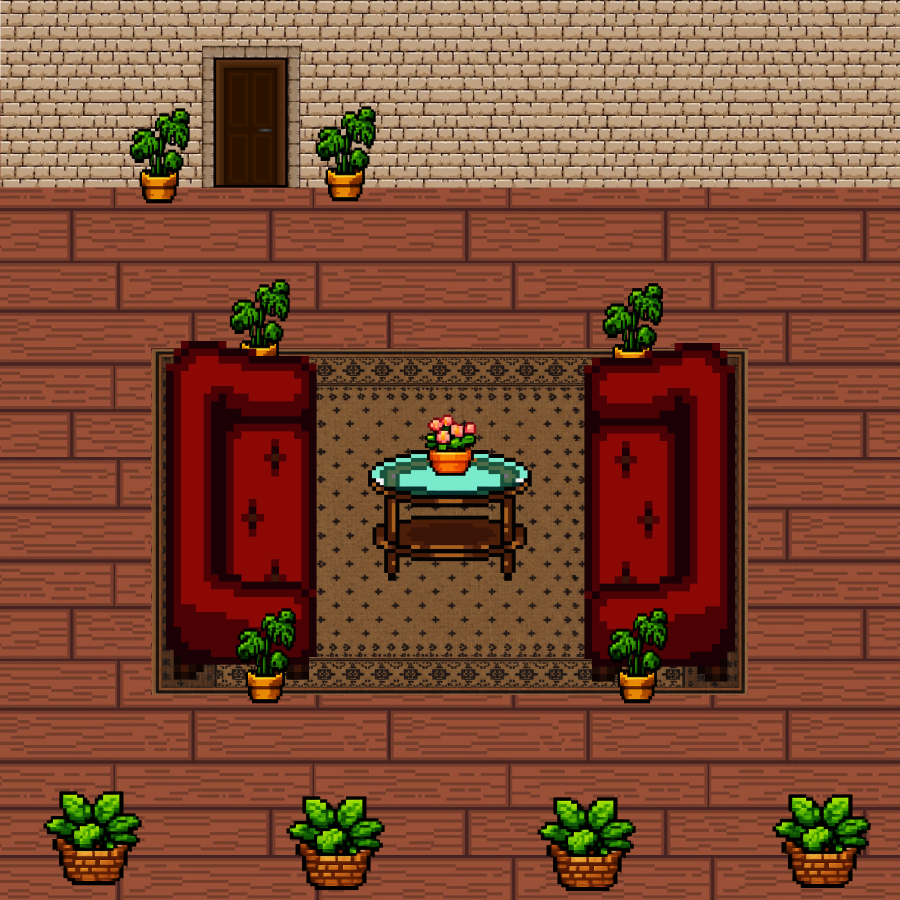
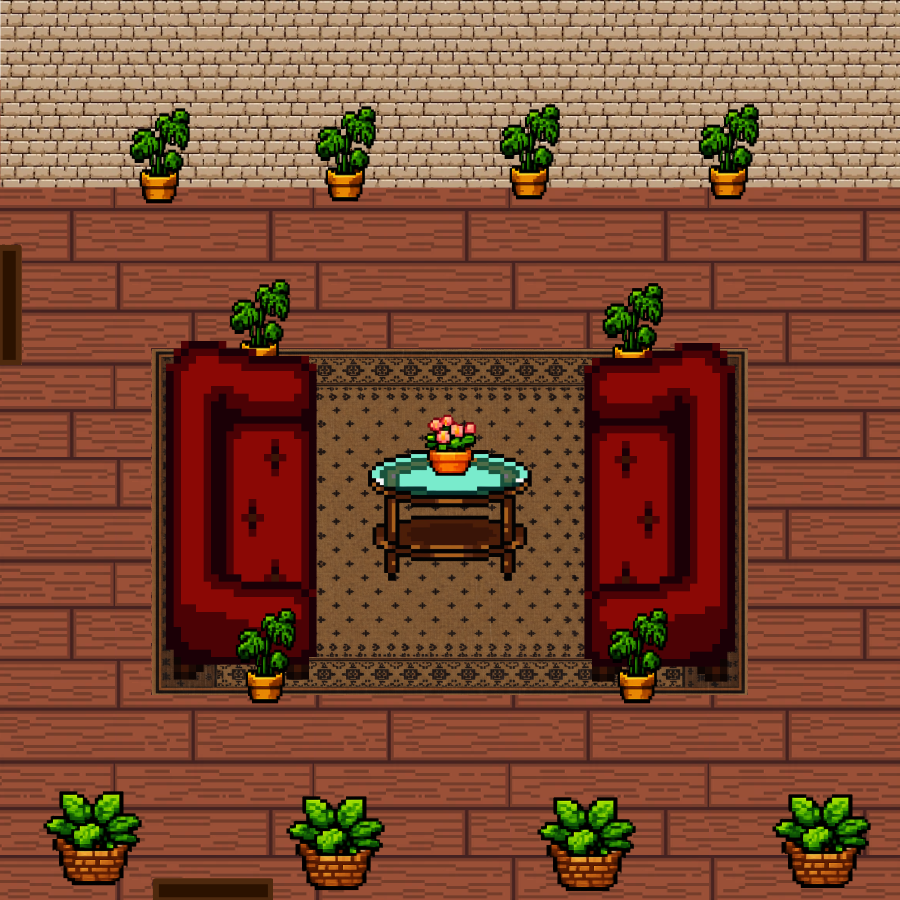
Update map Images

diff --git a/top_down_moving_background.py b/top_down_moving_background.py
@@ -140,7 +140,7 @@ class Camera(pygame.sprite.Group):
         self.camera_rect = pygame.Rect(l, t, w, h)
         
         # ground
-        self.ground_surf = pygame.image.load("photos/background_photos/Hallway_Main_Floor_A.png").convert_alpha()
+        self.ground_surf = pygame.image.load("photos/background_photos/Hallway_Main_Floor_A_Update.png").convert_alpha()
         self.ground_rect = self.ground_surf.get_rect(topleft = (0,0))
         
         # camera speed
